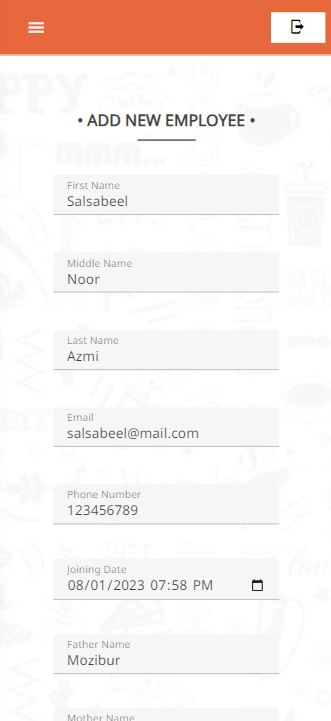
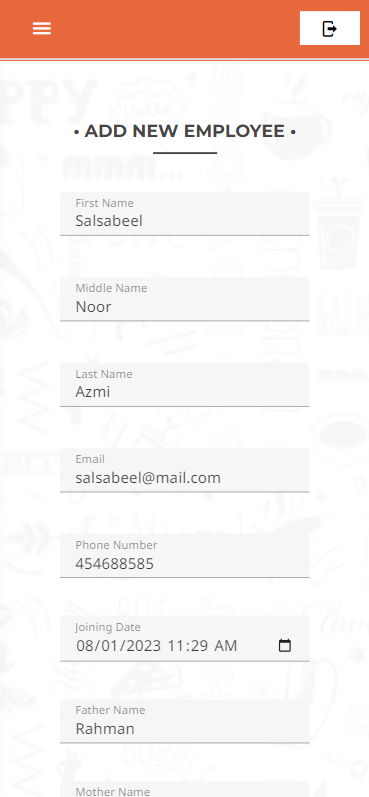
fonts changed

diff --git a/src/Views/AddEmployee.vue b/src/Views/AddEmployee.vue
@@ -269,8 +269,8 @@ export default {
       document.getElementById("image").click();
     },
     handleImage(e) {
-      const selectedImage = e.target.files[0];
-      this.employeeInfo.image = selectedImage.name;
+      const selectedImage = e.target.files[0]; //console log it
+      this.employeeInfo.image = selectedImage.name; ///console log
       // this.employeeInfo.image = URL.createObjectURL(selectedImage);
       this.createBase64Image(selectedImage);
     },
@@ -279,9 +279,9 @@ export default {
       reader.onload = (e) => {
         this.employeeInfo.base64 = e.target.result;
       };
-      reader.readAsDataURL(fileObject);
-      this.showPseudoContent = false;
-      this.isbase64Available = true;
+      reader.readAsDataURL(fileObject); // here ends
+      this.showPseudoContent = false; //
+      this.isbase64Available = true; //
     },
     async addEmployee() {
       try {
@@ -321,6 +321,7 @@ export default {
   background-size: cover;
 }
 h1 {
+  font-family: "Montserrat", Arial, sans-serif;
   white-space: wrap;
   color: #474544;
   overflow: hidden;

diff --git a/src/constants/config.ts b/src/constants/config.ts
@@ -3,3 +3,7 @@ export const serverUrl = 'https://restaurantapi.bssoln.com/'
 export const imageUrl = 'https://restaurantapi.bssoln.com/images/'
 
 // export const DEFAULT_TITLE = 'BSS ERP | '
+//https://restaurantapi.bssoln.com/images/user/32435453352.jpg
+/* 
+<td>{{`https://restaurantapi.bssoln.com/images/` + `user/` + employee.image }} </td>
+*/

diff --git a/src/Views/AddTable.vue b/src/Views/AddTable.vue
@@ -142,6 +142,7 @@ export default {
   }
 }
 h1 {
+  font-family: "Montserrat", Arial, sans-serif;
   color: #474544;
   font-size: clamp(0.73rem, -0.875rem + 8.333vw, 2rem);
   font-weight: 700;

diff --git a/src/Views/AddFood.vue b/src/Views/AddFood.vue
@@ -222,6 +222,7 @@ export default {
   background-size: cover;
 }
 h1 {
+  font-family: "Montserrat", Arial, sans-serif;
   white-space: wrap;
   color: #474544;
   overflow: hidden;
